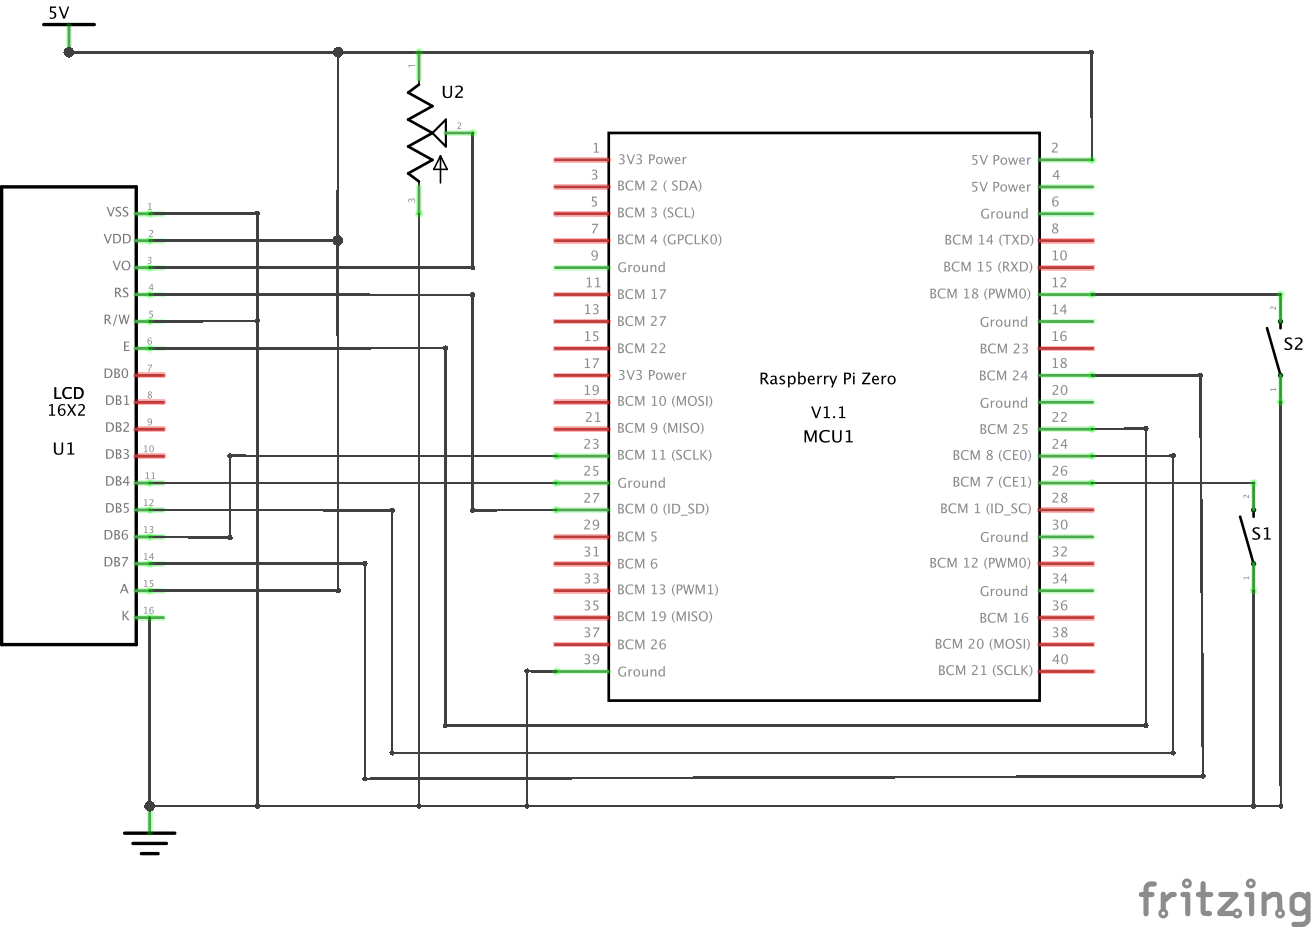
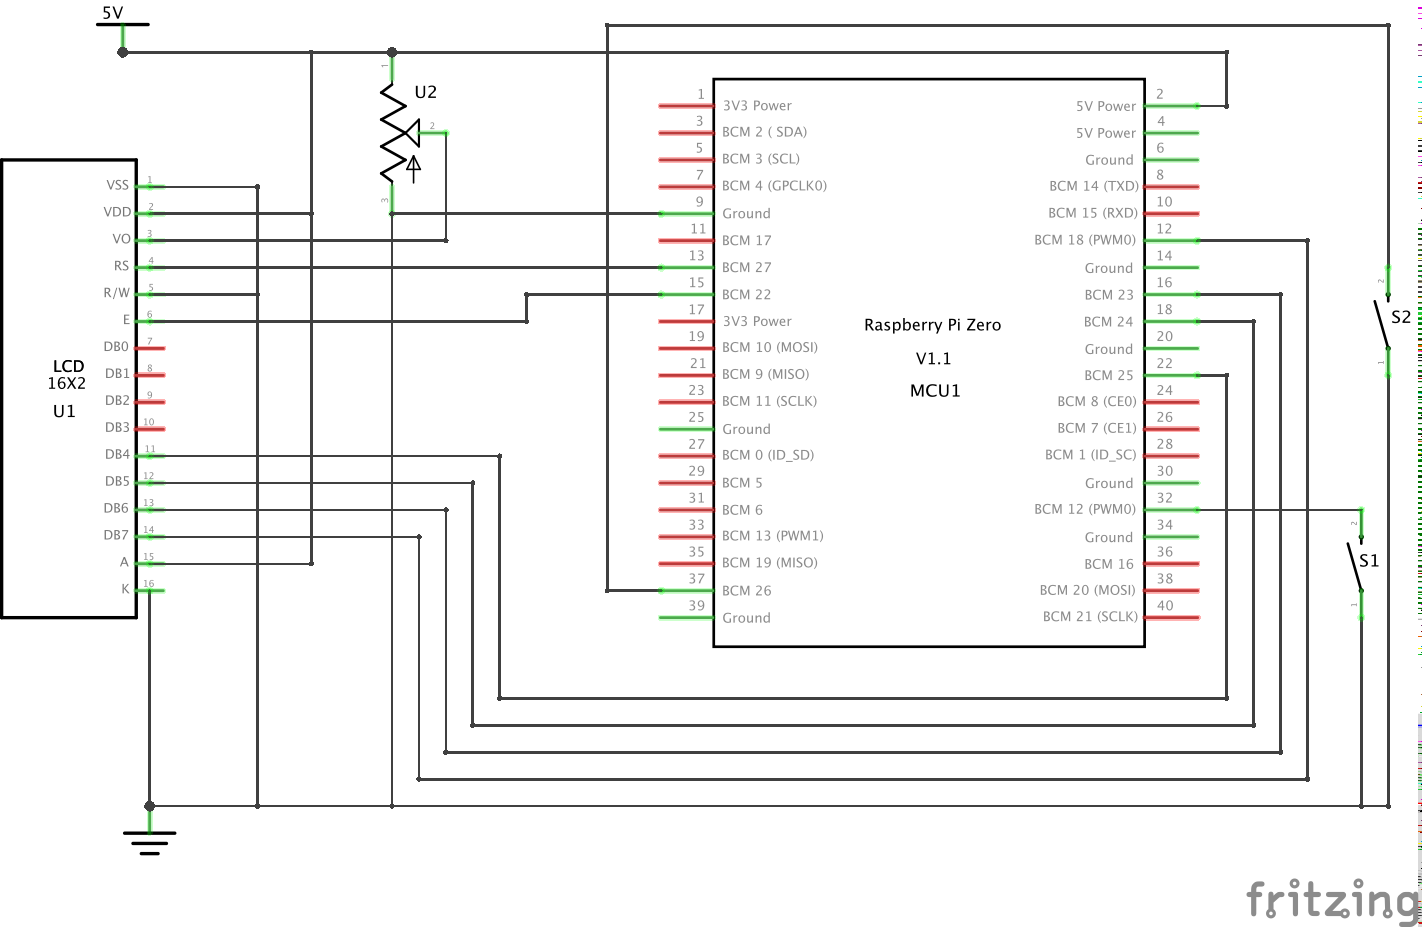
new schematic and breadboard for rpi portion

diff --git a/README.md b/README.md
@@ -43,6 +43,8 @@ This uses the buttons to trigger a call to isnickfired.com
 
 ##### Breadboard
 
+![Raspberry Pi Zero W with LCD Display and Buttons Schematic](/hardware/rpi_lcd_bb.png?raw=true "Raspberry Pi Zero W with LCD Display and Buttons Breadboard")
+
 ##### Schematic
 
 ![Raspberry Pi Zero W with LCD Display and Buttons Schematic](/hardware/rpi_lcd_schem.png?raw=true "Raspberry Pi Zero W with LCD Display and Buttons Schematic")
